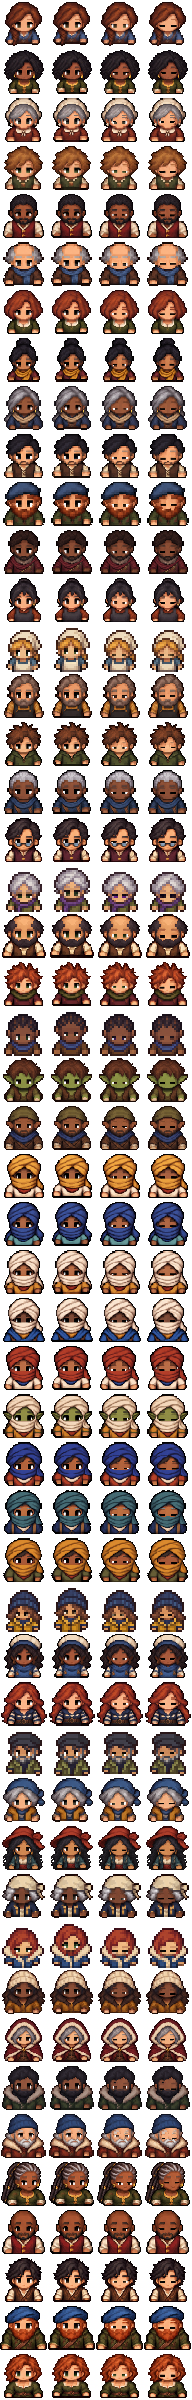
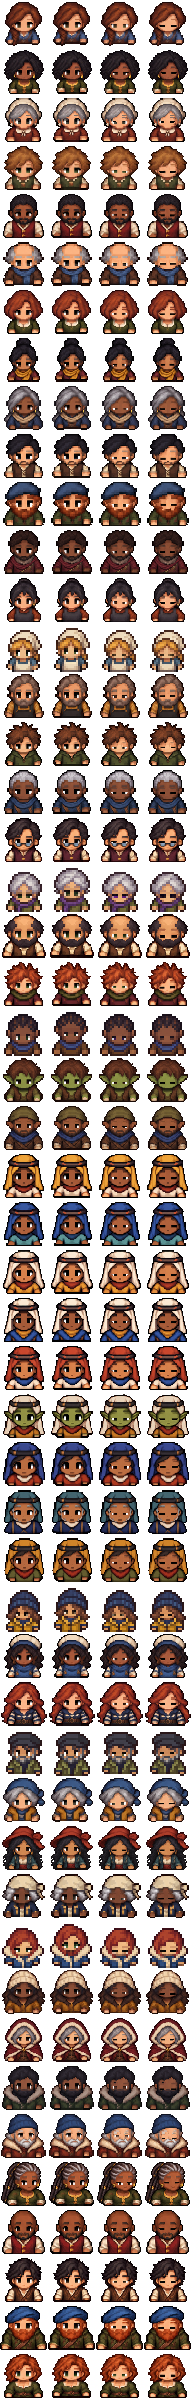
Match desert headcloths to open-face reference and keep house breathing steady

Changed region(s): [[0.0, 0.4688, 1.0, 0.6562]]

diff --git a/index.html b/index.html
@@ -423,9 +423,9 @@ window.addEventListener("unhandledrejection", function (e) {
 <script src="js/merchant-shop.js?v=20260927-thornwell-cast"></script>
 <script src="js/inventory-icons.js?v=20260926-shops-journey-items"></script>
 <script src="js/temple-compass.js?v=20260927-straight-walks"></script>
-<script src="js/millwood-interiors.js?v=20260928-locked-idle"></script>
+<script src="js/millwood-interiors.js?v=20260928-open-face-steady-breath"></script>
 <script src="js/generated/game-part-1.js?v=20260927-cast-quests" onerror="(document.getElementById('bootMsg')||document.getElementById('bootmsg')).textContent='GAME PART 1 LOAD ERROR'"></script>
-<script src="js/generated/game-part-2.js?v=20260928-locked-idle" onerror="(document.getElementById('bootMsg')||document.getElementById('bootmsg')).textContent='GAME PART 2 LOAD ERROR'"></script>
+<script src="js/generated/game-part-2.js?v=20260928-open-face-steady-breath" onerror="(document.getElementById('bootMsg')||document.getElementById('bootmsg')).textContent='GAME PART 2 LOAD ERROR'"></script>
 <script src="js/animal-sprites.js?v=20260925-stable-farm-ids"></script>
 <script src="js/hunting-grounds.js?v=20260925-deer-warm-return"></script>
 <script src="js/hollybeck-villagers.js?v=20260926-original-winter"></script>

diff --git a/js/millwood-interiors.js b/js/millwood-interiors.js
@@ -2,7 +2,7 @@
 let houseSeatedSheet=null;
 async function prepareMillwoodInteriors() {
   if(!houseSeatedSheet){
-    const image=new Image();image.src='assets/interiors/house-seated-v2.png?v=20260928-locked-idle';
+    const image=new Image();image.src='assets/interiors/house-seated-v2.png?v=20260928-open-face-steady-breath';
     await image.decode();image.spriteScale=2;image.pixelLocked=true;houseSeatedSheet=image;
   }
   await prepareTownHouseInteriors('millwood', /^house2[2-7](?:_bedroom2?)?$/);
@@ -253,7 +253,7 @@ function prepareRemainingInteriorActors() {
 
 // Contact points are measured from opaque source pixels, including all idle frames.
 async function alignHouseTableSeats() {
-  const response=await fetch('assets/interiors/seat-contacts.json?v=20260928-locked-idle');
+  const response=await fetch('assets/interiors/seat-contacts.json?v=20260928-open-face-steady-breath');
   if(!response.ok)throw new Error('House seat contacts: '+response.status);
   const contacts=await response.json();
   for(const [id,map] of Object.entries(W.maps)) {

diff --git a/assets/interiors/house-idle-README.md b/assets/interiors/house-idle-README.md
@@ -13,12 +13,14 @@ below the jaw by one source pixel; the blink reuses only the generated eyelid
 regions. Hair, face, glasses, clothing and baseline pixels outside those regions
 cannot drift. Pixel scaling uses nearest-neighbor sampling, with opaque sprite
 pixels and clear alpha outside the silhouette. Runtime scaling does not stretch
-the inhale frame. Breath cycles last 4.4–5.36 seconds with a 250 ms blink,
+the inhale frame. Breathing runs on an independent two-second cycle. Blinks last 250 ms every
+4.4–5.36 seconds,
 staggered by the resident's identity.
 
-The nine desert residents use continuous turban cloth around the head and lower
-face, with folded wraps and draped tails; the corrected prompts are in
-`house-idle-desert-revision-prompts.json`.
+The nine desert residents wear draped headcloths secured by a visible dark
+head ring, with their entire faces uncovered, matching the provided in-game
+screenshot. Current prompts are in `house-idle-open-face-prompts.json`; the
+earlier wrapped-face version is superseded.
 
 The existing house assignments, dialogue portraits, and table layering remain
 in place. Tavern, inn, school and the original Millwood cast use their existing
